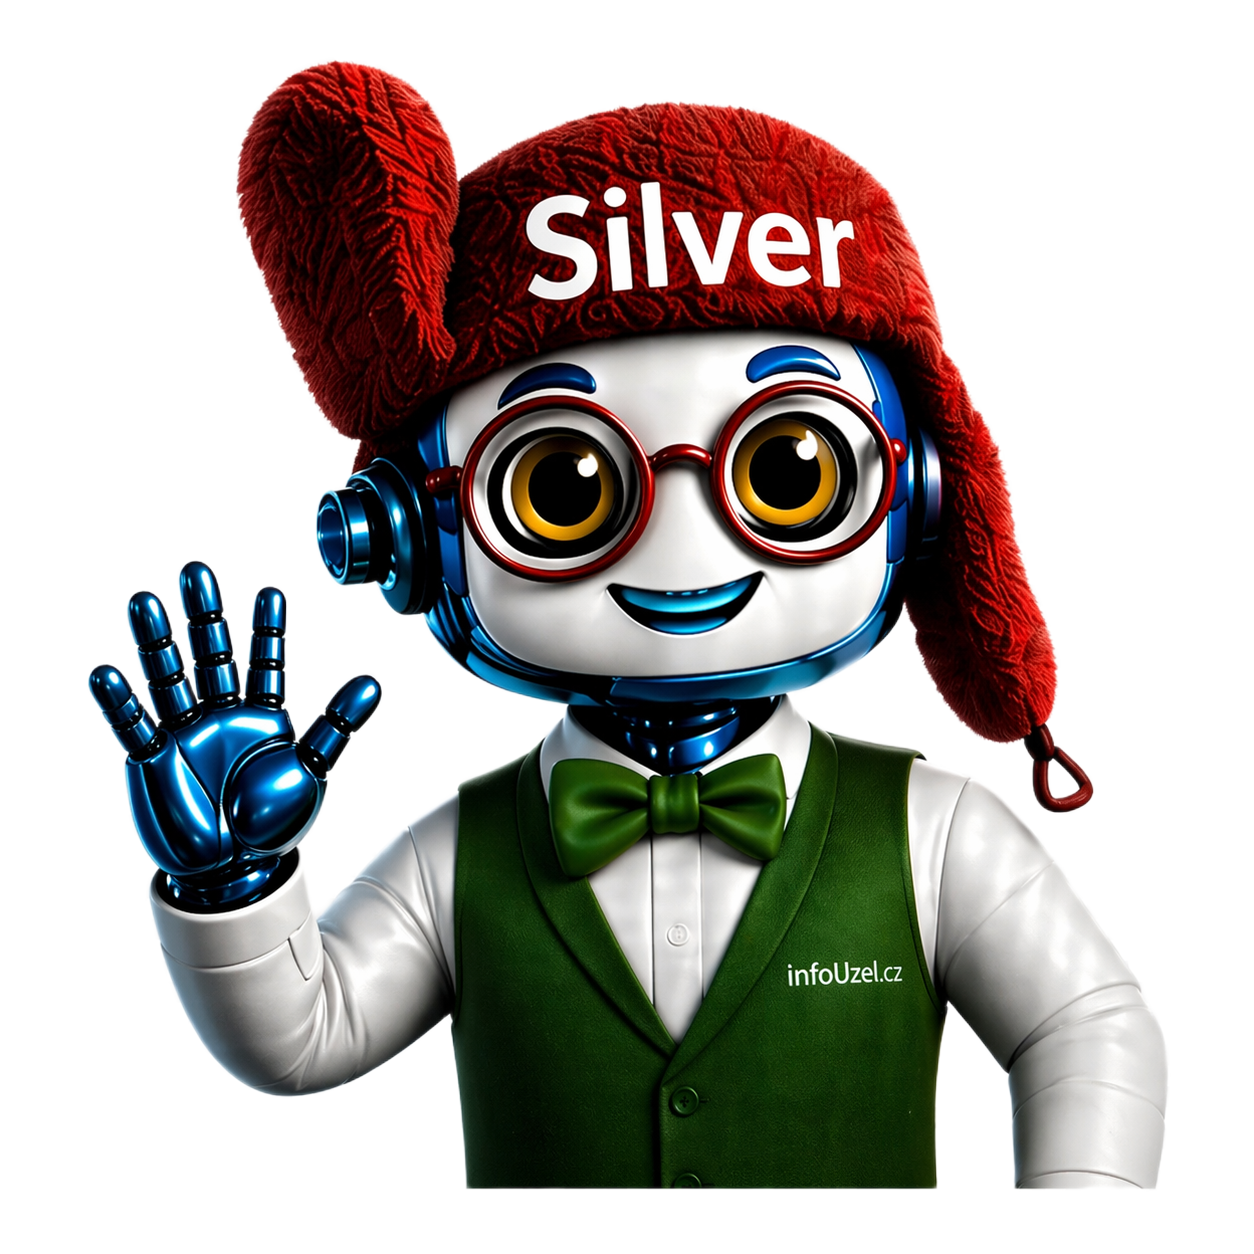
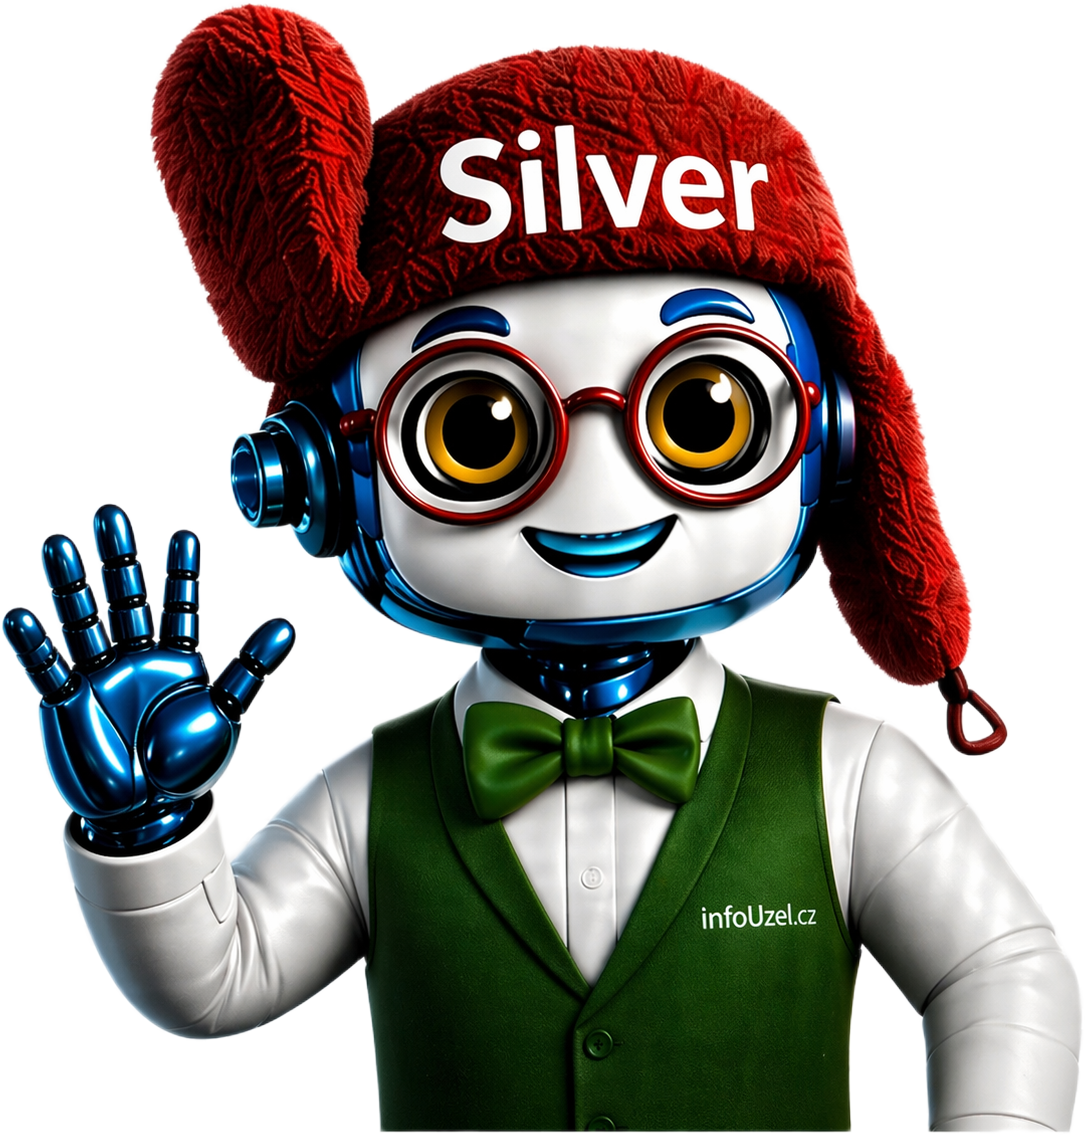
fix: remove real silver image gap and polish hero buttons

diff --git a/projects/index.html b/projects/index.html
@@ -142,10 +142,10 @@ style-src 'self' 'unsafe-inline' https:;
         .iu-hero-figure{min-width:0;margin:0!important;padding:0;width:100%;max-width:100%;display:flex;align-items:flex-end;justify-content:flex-start;box-sizing:border-box;height:auto;max-height:none;position:relative;align-self:end}
         .iu-hero-figure::after{content:"";position:absolute;inset:8% 4% 4% 4%;border-radius:50%;background:radial-gradient(circle at 50% 55%,rgba(120,200,255,.35) 0%,rgba(167,139,250,.12) 42%,transparent 70%);filter:blur(12px);opacity:.85;pointer-events:none;z-index:0}
         .iu-hero-figureImg{position:relative;z-index:1;display:block;width:100%;height:auto;max-height:168px;margin:0;padding:0;object-fit:contain;object-position:left bottom;box-sizing:border-box}
-        #iuSilverHeroPremium .iu-hero-silverTitle{margin:0!important;padding:0!important;font-size:clamp(17px, calc(1.32rem + 1.4vw), 1.58rem)!important;font-weight:800!important;letter-spacing:-.03em!important;line-height:1.12!important;color:rgba(248,250,252,.98)!important}
+        #iuSilverHeroPremium .iu-hero-silverTitle{margin:0!important;padding:0!important;font-size:clamp(1.14rem, calc(1.02rem + 1.65vw), 1.68rem)!important;font-weight:800!important;letter-spacing:-.03em!important;line-height:1.12!important;color:rgba(248,250,252,.98)!important}
         #iuSilverHeroPremium .iu-hero-silverLines{margin:0!important;padding:0!important;display:flex;flex-direction:column;align-items:stretch;gap:3px}
-        #iuSilverHeroPremium .iu-hero-line{display:block!important;margin:0!important;padding:0!important;white-space:nowrap!important;font-size:clamp(13px, calc(0.92rem + 1.1vw), 1.08rem)!important;line-height:1.28!important;font-weight:600!important;letter-spacing:-.02em!important;color:rgba(236,242,252,.94)!important}
-        #iuSilverHeroPremium .iu-hero-line--3{font-weight:550!important;opacity:.94!important}
+        #iuSilverHeroPremium .iu-hero-silverLines .iu-hero-line{display:block!important;margin:0!important;padding:0!important;white-space:nowrap!important;font-size:clamp(0.82rem, calc(0.78rem + 0.95vw), 0.98rem)!important;line-height:1.28!important;font-weight:600!important;letter-spacing:-.02em!important;color:rgba(236,242,252,.94)!important}
+        #iuSilverHeroPremium .iu-hero-silverLines .iu-hero-line--3{font-weight:550!important;opacity:.94!important}
         .iu-hero-silverInputHost{width:100%;max-width:100%;min-width:0;box-sizing:border-box;min-height:0!important;margin:0;padding:0;flex:0 0 auto}
         .iu-hero-silverInputHost .iuSilverHomeInputWrap{margin-top:0!important;margin-bottom:0!important}
         #iuSilverHeroPremium .iuSilverHomeInputWrap{width:100%!important;max-width:100%!important;box-sizing:border-box!important}
@@ -156,12 +156,12 @@ style-src 'self' 'unsafe-inline' https:;
         #iuSilverHeroPremium .iuSilverHomeInputWrap .iuSilverHomeInput.iuSilverHomeInput{width:100%!important;max-width:none!important;flex:1 1 auto!important;min-width:0!important;box-sizing:border-box!important}
         .iu-hero-quickActions.iu-hero-actions{display:grid!important;grid-template-columns:repeat(3,1fr)!important;gap:8px!important;width:100%!important;max-width:100%!important;min-width:0;margin:10px 0 0 0;padding:0;box-sizing:border-box!important;justify-items:stretch;align-items:stretch}
         .iu-hero-quickActions.iu-hero-actions .iu-hero-quickBtn{width:100%!important;min-width:0!important;max-width:none!important;box-sizing:border-box!important}
-        .iu-hero-quickBtn{margin:0;padding:0 5px;border-radius:12px;border:1px solid rgba(255,255,255,.22);font-size:12px;font-weight:650;letter-spacing:-.02em;line-height:1.15;cursor:pointer;-webkit-tap-highlight-color:transparent;color:rgba(248,250,252,.98);box-shadow:0 2px 10px rgba(0,0,0,.28),inset 0 1px 0 rgba(255,255,255,.14);min-height:58px;display:inline-flex!important;align-items:center!important;justify-content:center!important;gap:8px!important}
+        .iu-hero-quickBtn{margin:0;padding:0 5px;border-radius:12px;border:1px solid rgba(255,255,255,.22);font-size:12px;font-weight:650;letter-spacing:-.02em;line-height:1.15;cursor:pointer;-webkit-tap-highlight-color:transparent;color:rgba(248,250,252,.98);box-shadow:0 2px 10px rgba(0,0,0,.28),inset 0 1px 0 rgba(255,255,255,.14);min-height:52px;display:inline-flex!important;align-items:center!important;justify-content:center!important;gap:7px!important}
         .iu-hero-quickBtnIcon{width:18px;height:18px;flex:0 0 auto;display:block;pointer-events:none;opacity:.98}
         .iu-hero-quickBtnLabel{min-width:0;white-space:nowrap;text-align:center}
-        #iuSilverHeroPremium .iu-hero-quickBtn--cal{background:linear-gradient(135deg,rgba(124,58,237,.96) 0%,rgba(37,99,235,.9) 55%,rgba(30,64,175,.88) 100%)!important;border-color:rgba(196,181,253,.42)!important;box-shadow:0 0 20px rgba(129,140,248,.35),0 2px 12px rgba(15,23,42,.45),inset 0 1px 0 rgba(255,255,255,.16)!important}
+        #iuSilverHeroPremium .iu-hero-quickBtn--cal{background:linear-gradient(135deg,rgba(22,163,74,.96) 0%,rgba(34,197,94,.9) 50%,rgba(16,185,129,.86) 100%)!important;border-color:rgba(134,239,172,.42)!important;box-shadow:0 0 20px rgba(52,211,153,.3),0 2px 12px rgba(15,23,42,.45),inset 0 1px 0 rgba(255,255,255,.14)!important}
         #iuSilverHeroPremium .iu-hero-quickBtn--tasks{background:linear-gradient(135deg,rgba(37,99,235,.96) 0%,rgba(8,145,178,.9) 52%,rgba(6,182,212,.86) 100%)!important;border-color:rgba(125,211,252,.45)!important;box-shadow:0 0 20px rgba(34,211,238,.32),0 2px 12px rgba(15,23,42,.45),inset 0 1px 0 rgba(255,255,255,.14)!important}
-        #iuSilverHeroPremium .iu-hero-quickBtn--notes{background:linear-gradient(135deg,rgba(22,163,74,.96) 0%,rgba(34,197,94,.9) 50%,rgba(16,185,129,.86) 100%)!important;border-color:rgba(134,239,172,.42)!important;box-shadow:0 0 20px rgba(52,211,153,.3),0 2px 12px rgba(15,23,42,.45),inset 0 1px 0 rgba(255,255,255,.14)!important}
+        #iuSilverHeroPremium .iu-hero-quickBtn--notes{background:linear-gradient(135deg,rgba(124,58,237,.96) 0%,rgba(37,99,235,.9) 55%,rgba(30,64,175,.88) 100%)!important;border-color:rgba(196,181,253,.42)!important;box-shadow:0 0 20px rgba(129,140,248,.35),0 2px 12px rgba(15,23,42,.45),inset 0 1px 0 rgba(255,255,255,.16)!important}
         #iuMobileSilverSlot #silver-slot #iuSilverHeroPremium #iuSilverHeroInputHost .iuSilverStackChromaFrame.silver-inputWrap.iuSilverHomeInputWrap,#iuMobileSilverSlot #silver-slot #iuSilverHeroPremium #iuSilverHeroInputHost .iuSilverHomeInputWrap{width:100%!important;max-width:100%!important;margin:0!important;padding-top:0!important;padding-left:0!important;padding-right:0!important;box-sizing:border-box!important}
         #iuSilverHeroPremium #iuSilverHeroInputHost .iu-mobileSilverGateStack--floatingSilver{width:100%!important;max-width:100%!important;min-width:0!important;align-self:stretch!important;box-sizing:border-box!important}
         #iuMobileSilverSlot #silver-slot #iuSilverHeroPremium #iuSilverHeroInputHost .iuSilverHomeInputRow.iuSilverHomeComposerShell,#iuSilverHeroPremium #iuSilverHeroInputHost .iuSilverHomeInputRow.iuSilverHomeComposerShell{width:100%!important;max-width:100%!important;min-width:0!important;align-self:stretch!important;box-sizing:border-box!important}
@@ -494,10 +494,10 @@ style-src 'self' 'unsafe-inline' https:;
                             <div class="iu-hero-silver-premiumMain">
                               <div class="iu-hero-topRow">
                                 <div class="iu-hero-figure" aria-hidden="true">
-                                  <img class="iu-hero-figureImg" src="/assets/images/silver-hero.png" alt="Silver" width="1296" height="1213" decoding="async" fetchpriority="high" />
+                                  <img class="iu-hero-figureImg" src="/assets/images/silver-hero.png" alt="Silver" width="1085" height="1135" decoding="async" fetchpriority="high" />
                                 </div>
                                 <div class="iu-hero-copy">
-                                  <h2 class="iu-hero-silverTitle iu-hero-line iu-hero-line--1">Jsem Silver.</h2>
+                                  <h2 class="iu-hero-silverTitle iu-hero-line--1">Jsem Silver.</h2>
                                   <p class="iu-hero-silverLines" aria-label="Pomůžu ti se vším na infoUzel.cz">
                                     <span class="iu-hero-line iu-hero-line--2">Pomůžu ti se vším</span>
                                     <span class="iu-hero-line iu-hero-line--3">na infoUzel.cz</span>
